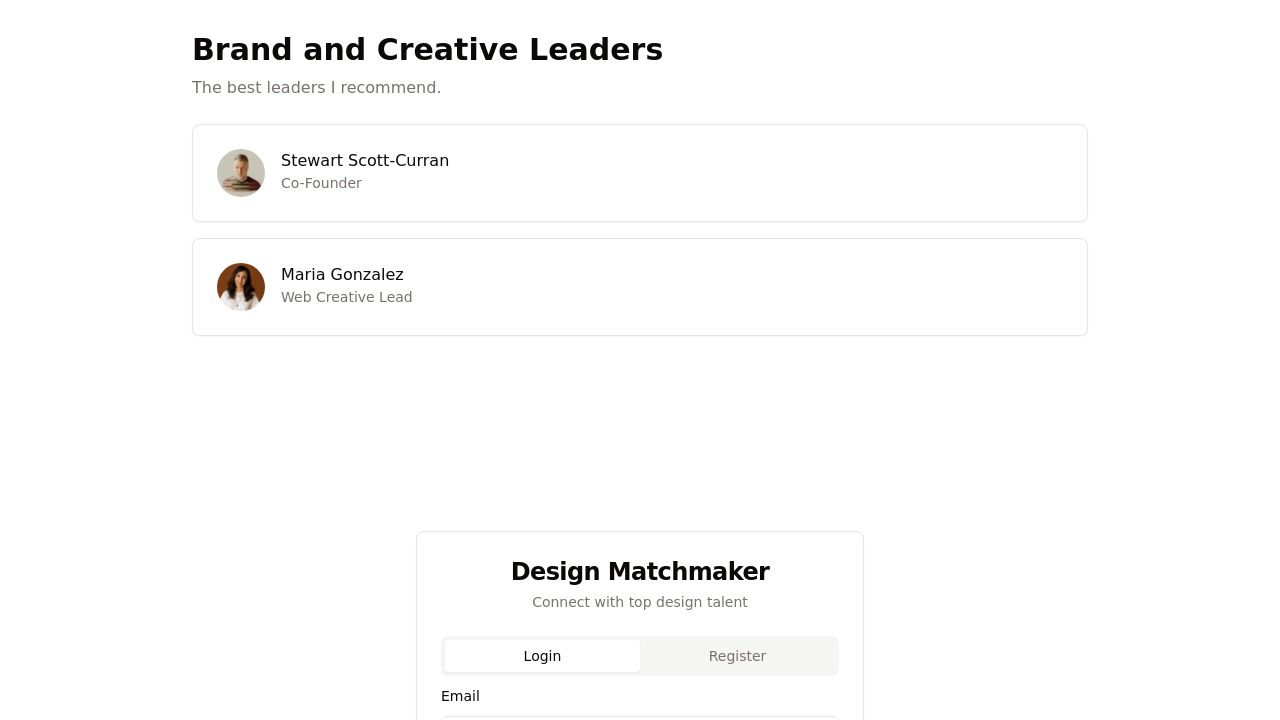
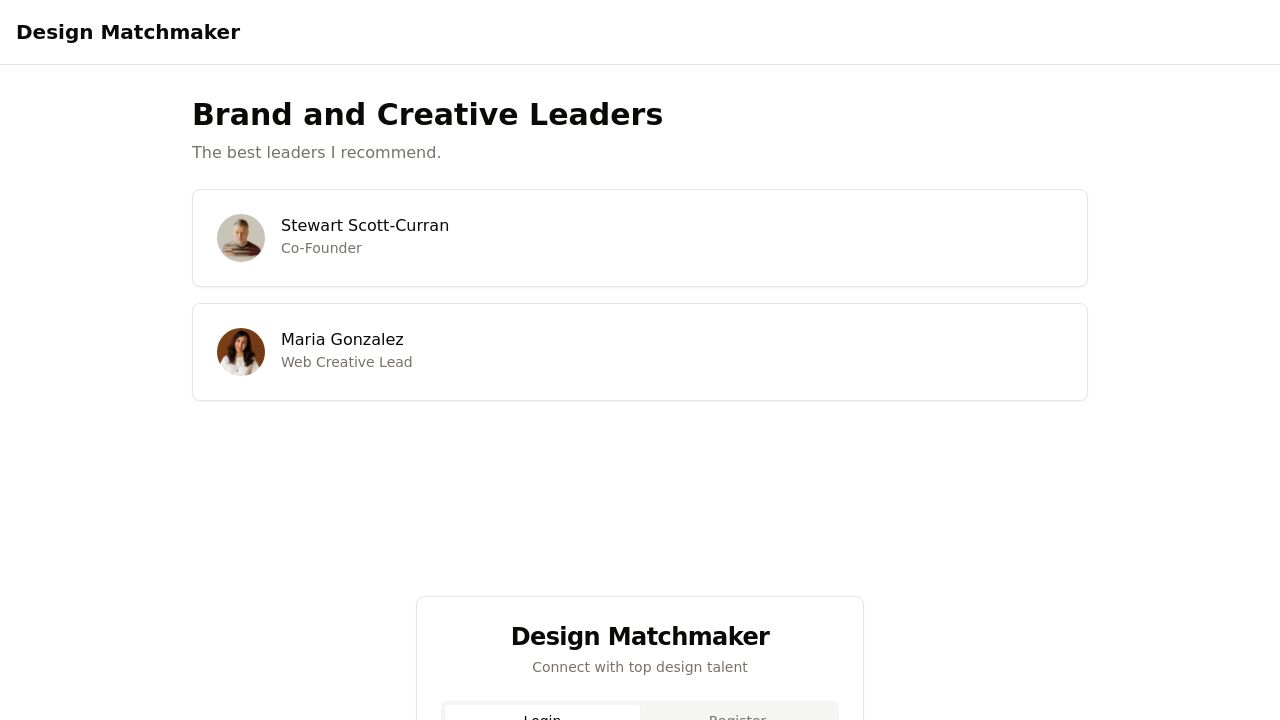
Agent query: Can you verify if visiting a public list URL now shows only the list content without any auth UI?
Improve routing to handle public lists and authentication flow.

Screenshot: https://storage.googleapis.com/screenshot-production-us-central1/28ce8c8f-bd0b-42e1-bd63-3d692386114f/21587669-8128-4330-832d-e1959ae7dea9.jpg

diff --git a/client/src/App.tsx b/client/src/App.tsx
@@ -15,32 +15,45 @@ import { Loader2 } from "lucide-react";
 function App() {
   const { user, isLoading } = useUser();
 
+  // Handle public list routes first
+  if (window.location.pathname.startsWith('/lists/')) {
+    return (
+      <QueryClientProvider client={queryClient}>
+        <PublicListPage params={{ id: window.location.pathname.split('/')[2] }} />
+        <Toaster />
+      </QueryClientProvider>
+    );
+  }
+
+  // For all other routes, handle auth flow
+  if (isLoading) {
+    return (
+      <div className="flex items-center justify-center min-h-screen">
+        <Loader2 className="h-8 w-8 animate-spin text-primary" />
+      </div>
+    );
+  }
+
+  if (!user) {
+    return <AuthPage />;
+  }
+
   return (
     <div className="min-h-screen bg-background">
-      {user && <Navigation />}
-      <main className={`${user ? 'container mx-auto px-4 py-8' : ''}`}>
+      <Navigation />
+      <main className="container mx-auto px-4 py-8">
         <Switch>
-          {!user ? (
-            <>
-              <Route path="/lists/:id" component={PublicListPage} />
-              <Route component={AuthPage} />
-            </>
-          ) : (
-            <>
-              <Route path="/" component={HomePage} />
-              <Route path="/directory" component={DirectoryPage} />
-              <Route path="/lists" component={ListsPage} />
-              <Route path="/lists/:id" component={PublicListPage} />
-              <Route path="/matchmaker" component={MatchmakerPage} />
-              <Route>
-                {() => (
-                  <div className="flex items-center justify-center min-h-[50vh]">
-                    <h1 className="text-2xl font-bold">404 - Page Not Found</h1>
-                  </div>
-                )}
-              </Route>
-            </>
-          )}
+          <Route path="/" component={HomePage} />
+          <Route path="/directory" component={DirectoryPage} />
+          <Route path="/lists" component={ListsPage} />
+          <Route path="/matchmaker" component={MatchmakerPage} />
+          <Route>
+            {() => (
+              <div className="flex items-center justify-center min-h-[50vh]">
+                <h1 className="text-2xl font-bold">404 - Page Not Found</h1>
+              </div>
+            )}
+          </Route>
         </Switch>
       </main>
       <Toaster />
